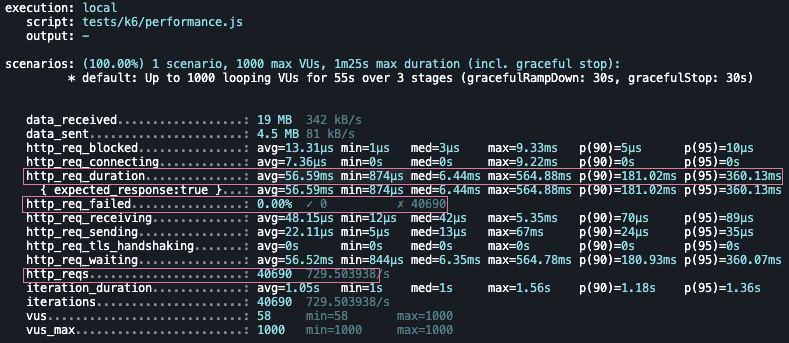
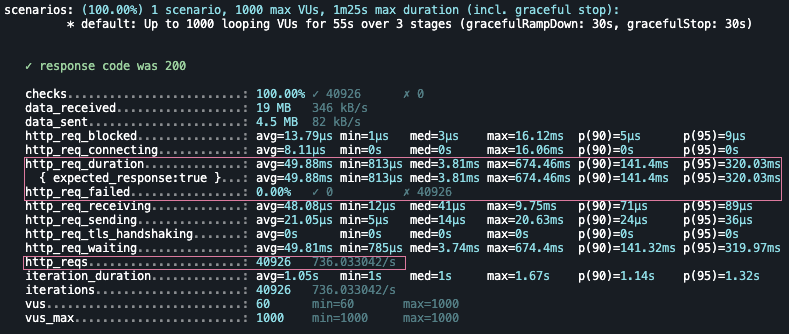
Added check to k6 test

diff --git a/tests/k6/performance.js b/tests/k6/performance.js
@@ -1,5 +1,5 @@
 import http from 'k6/http';
-import { sleep } from 'k6';
+import { sleep, check } from 'k6';
 
 export const options = {
   stages: [
@@ -18,10 +18,16 @@ export default function() {
   const productEndpoint = `${url}/?product_id=${randomID}`;
   const productMetaEndpoint = `${url}/meta/?product_id=${randomID}`;
 
-  http.get(productEndpoint);
-  sleep(1);
-
-  // http.get(productMetaEndpoint);
+  // const getReviews = http.get(productEndpoint);
   // sleep(1);
+  // check(getReviews, {
+  //   'response code was 200': (response) => response.status === 200,
+  // });
+
+  const getMeta = http.get(productMetaEndpoint);
+  sleep(1);
+  check(getMeta, {
+    'response code was 200': (response) => response.status === 200,
+  });
 }
 
